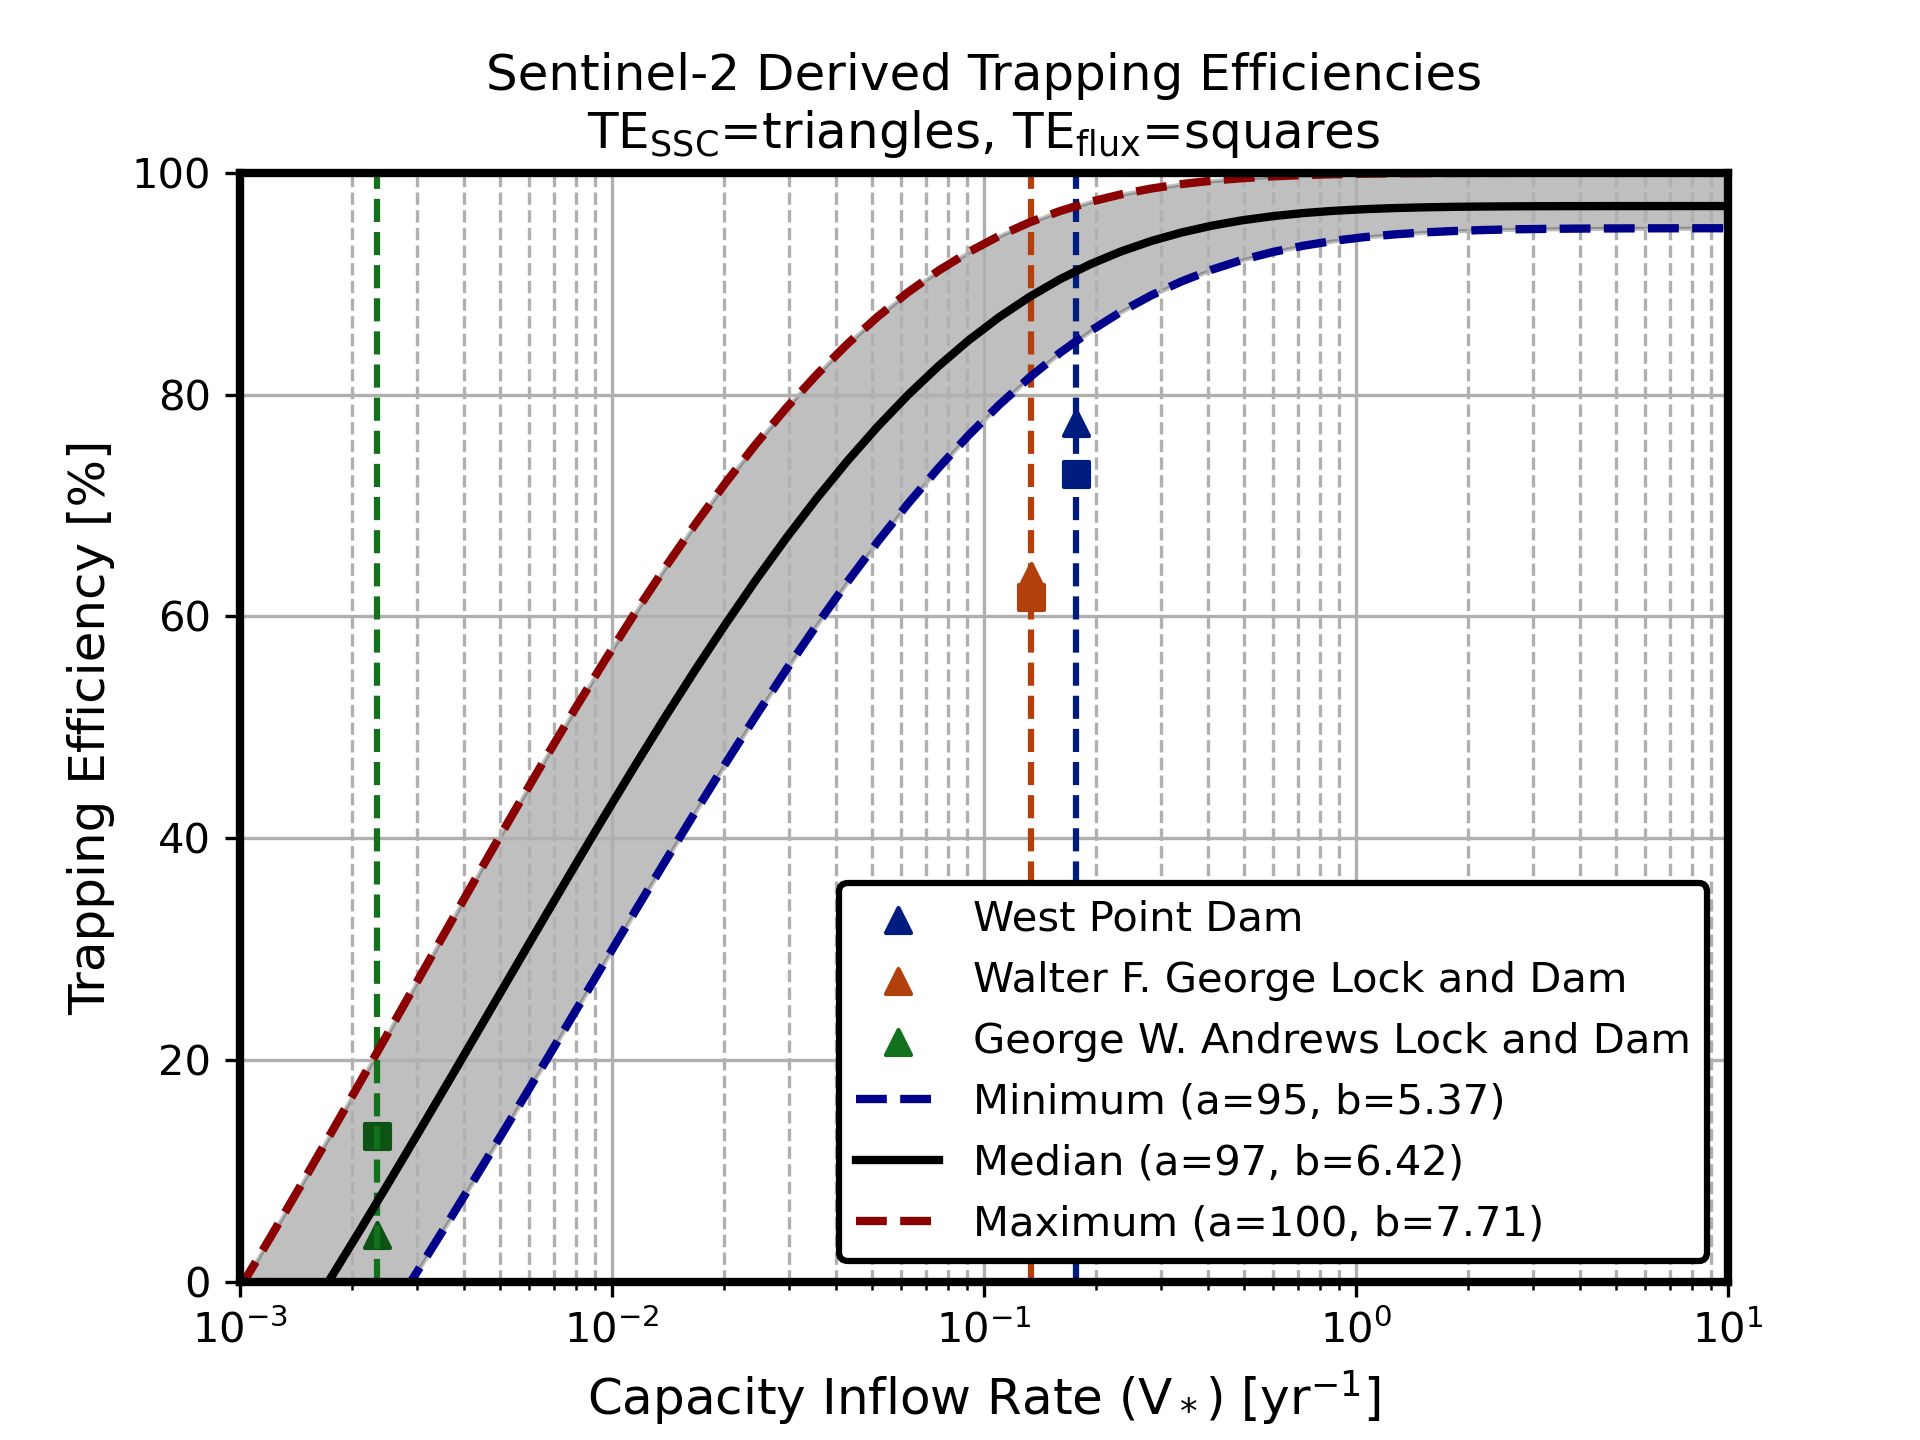
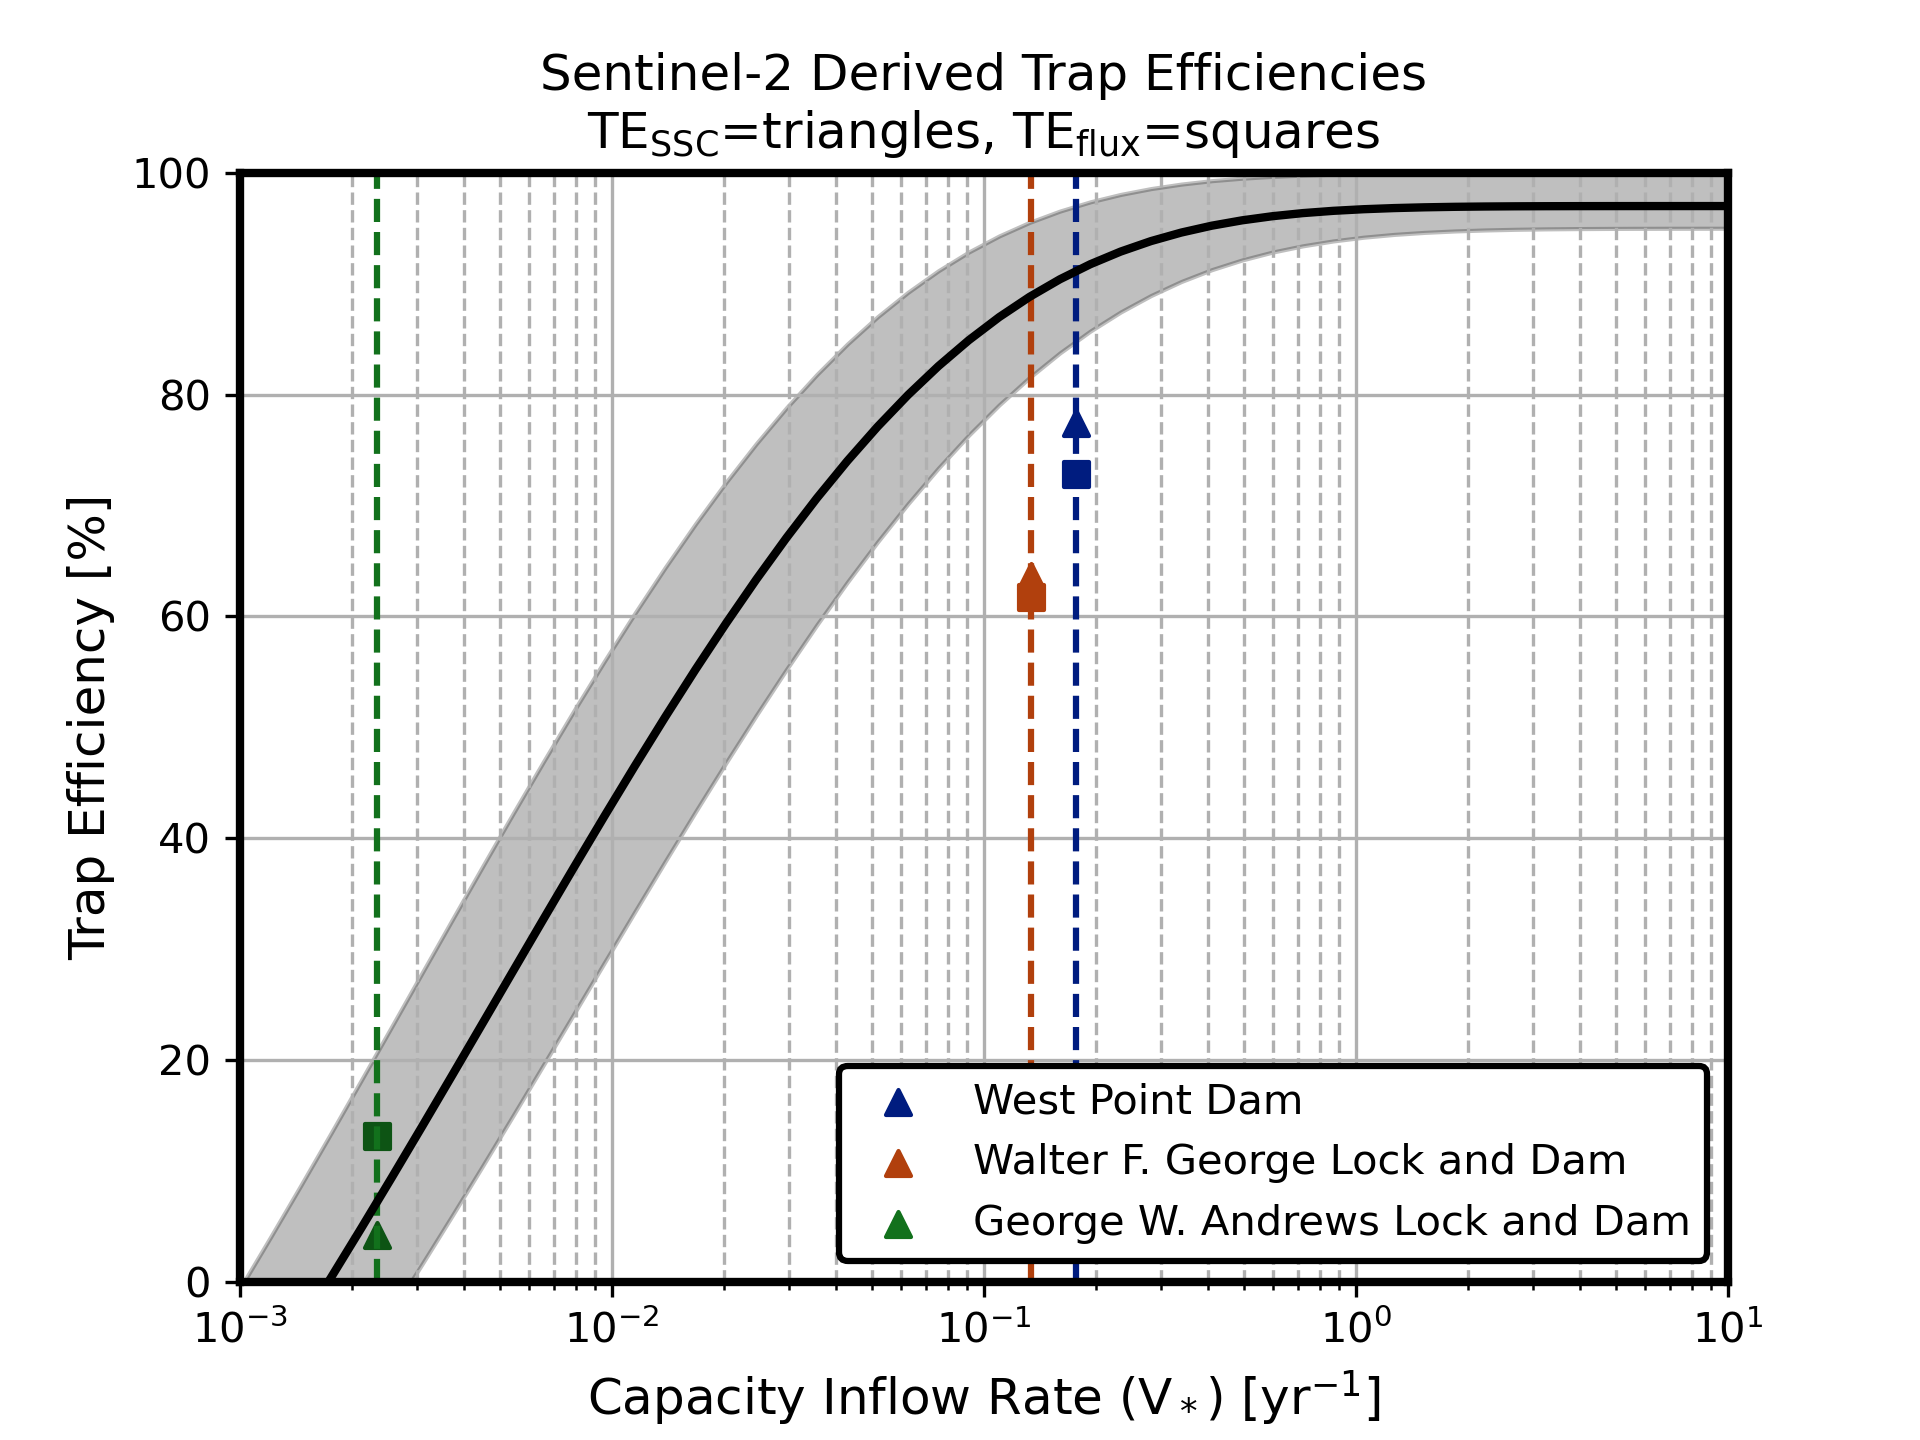
Updated figs for resubmission

diff --git a/README.md b/README.md
@@ -1,1 +1,12 @@
 # sentinel-ssc
+
+This repository contains code for the paper **Estimating river suspended sediment concentrations from Sentinel-2: expanding the training set and applicability to multi-dammed systems**
+
+[Insert DOI once published]
+
+## Authors
+- Ilan Valencius (corresponding author)
+- Evan Dethier
+- Christopher Sheehan
+- Noah Snyder
+